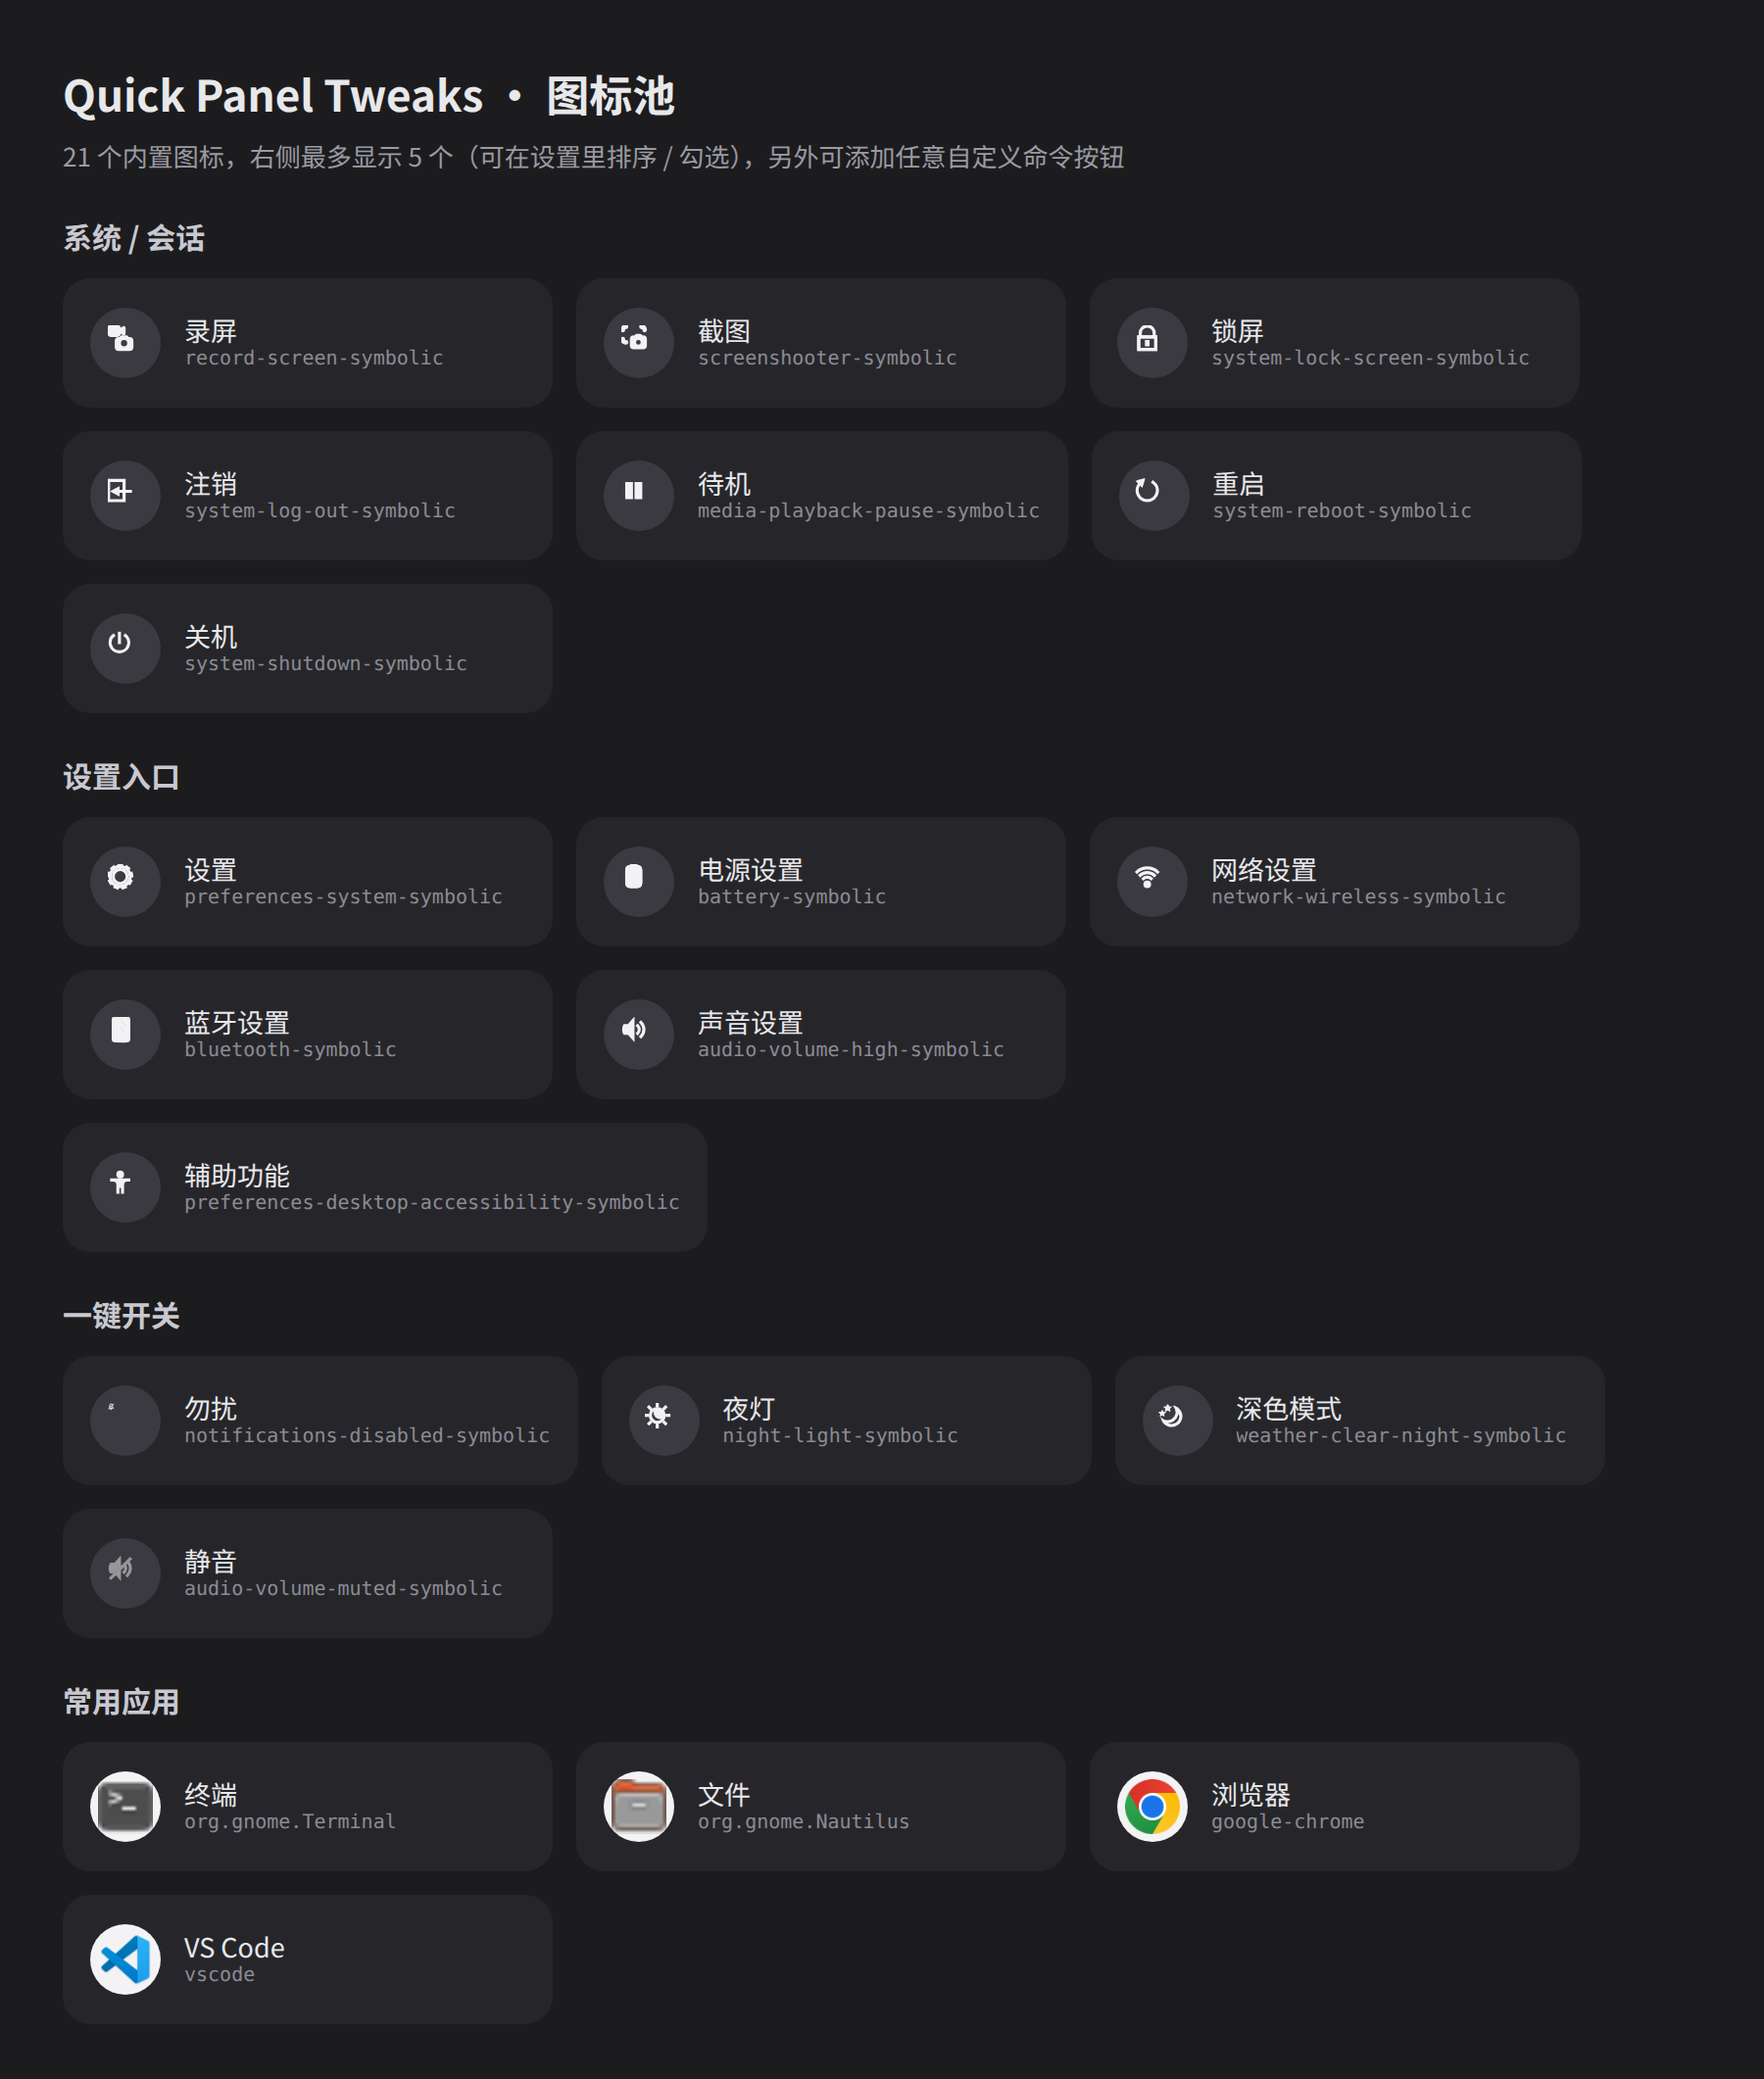
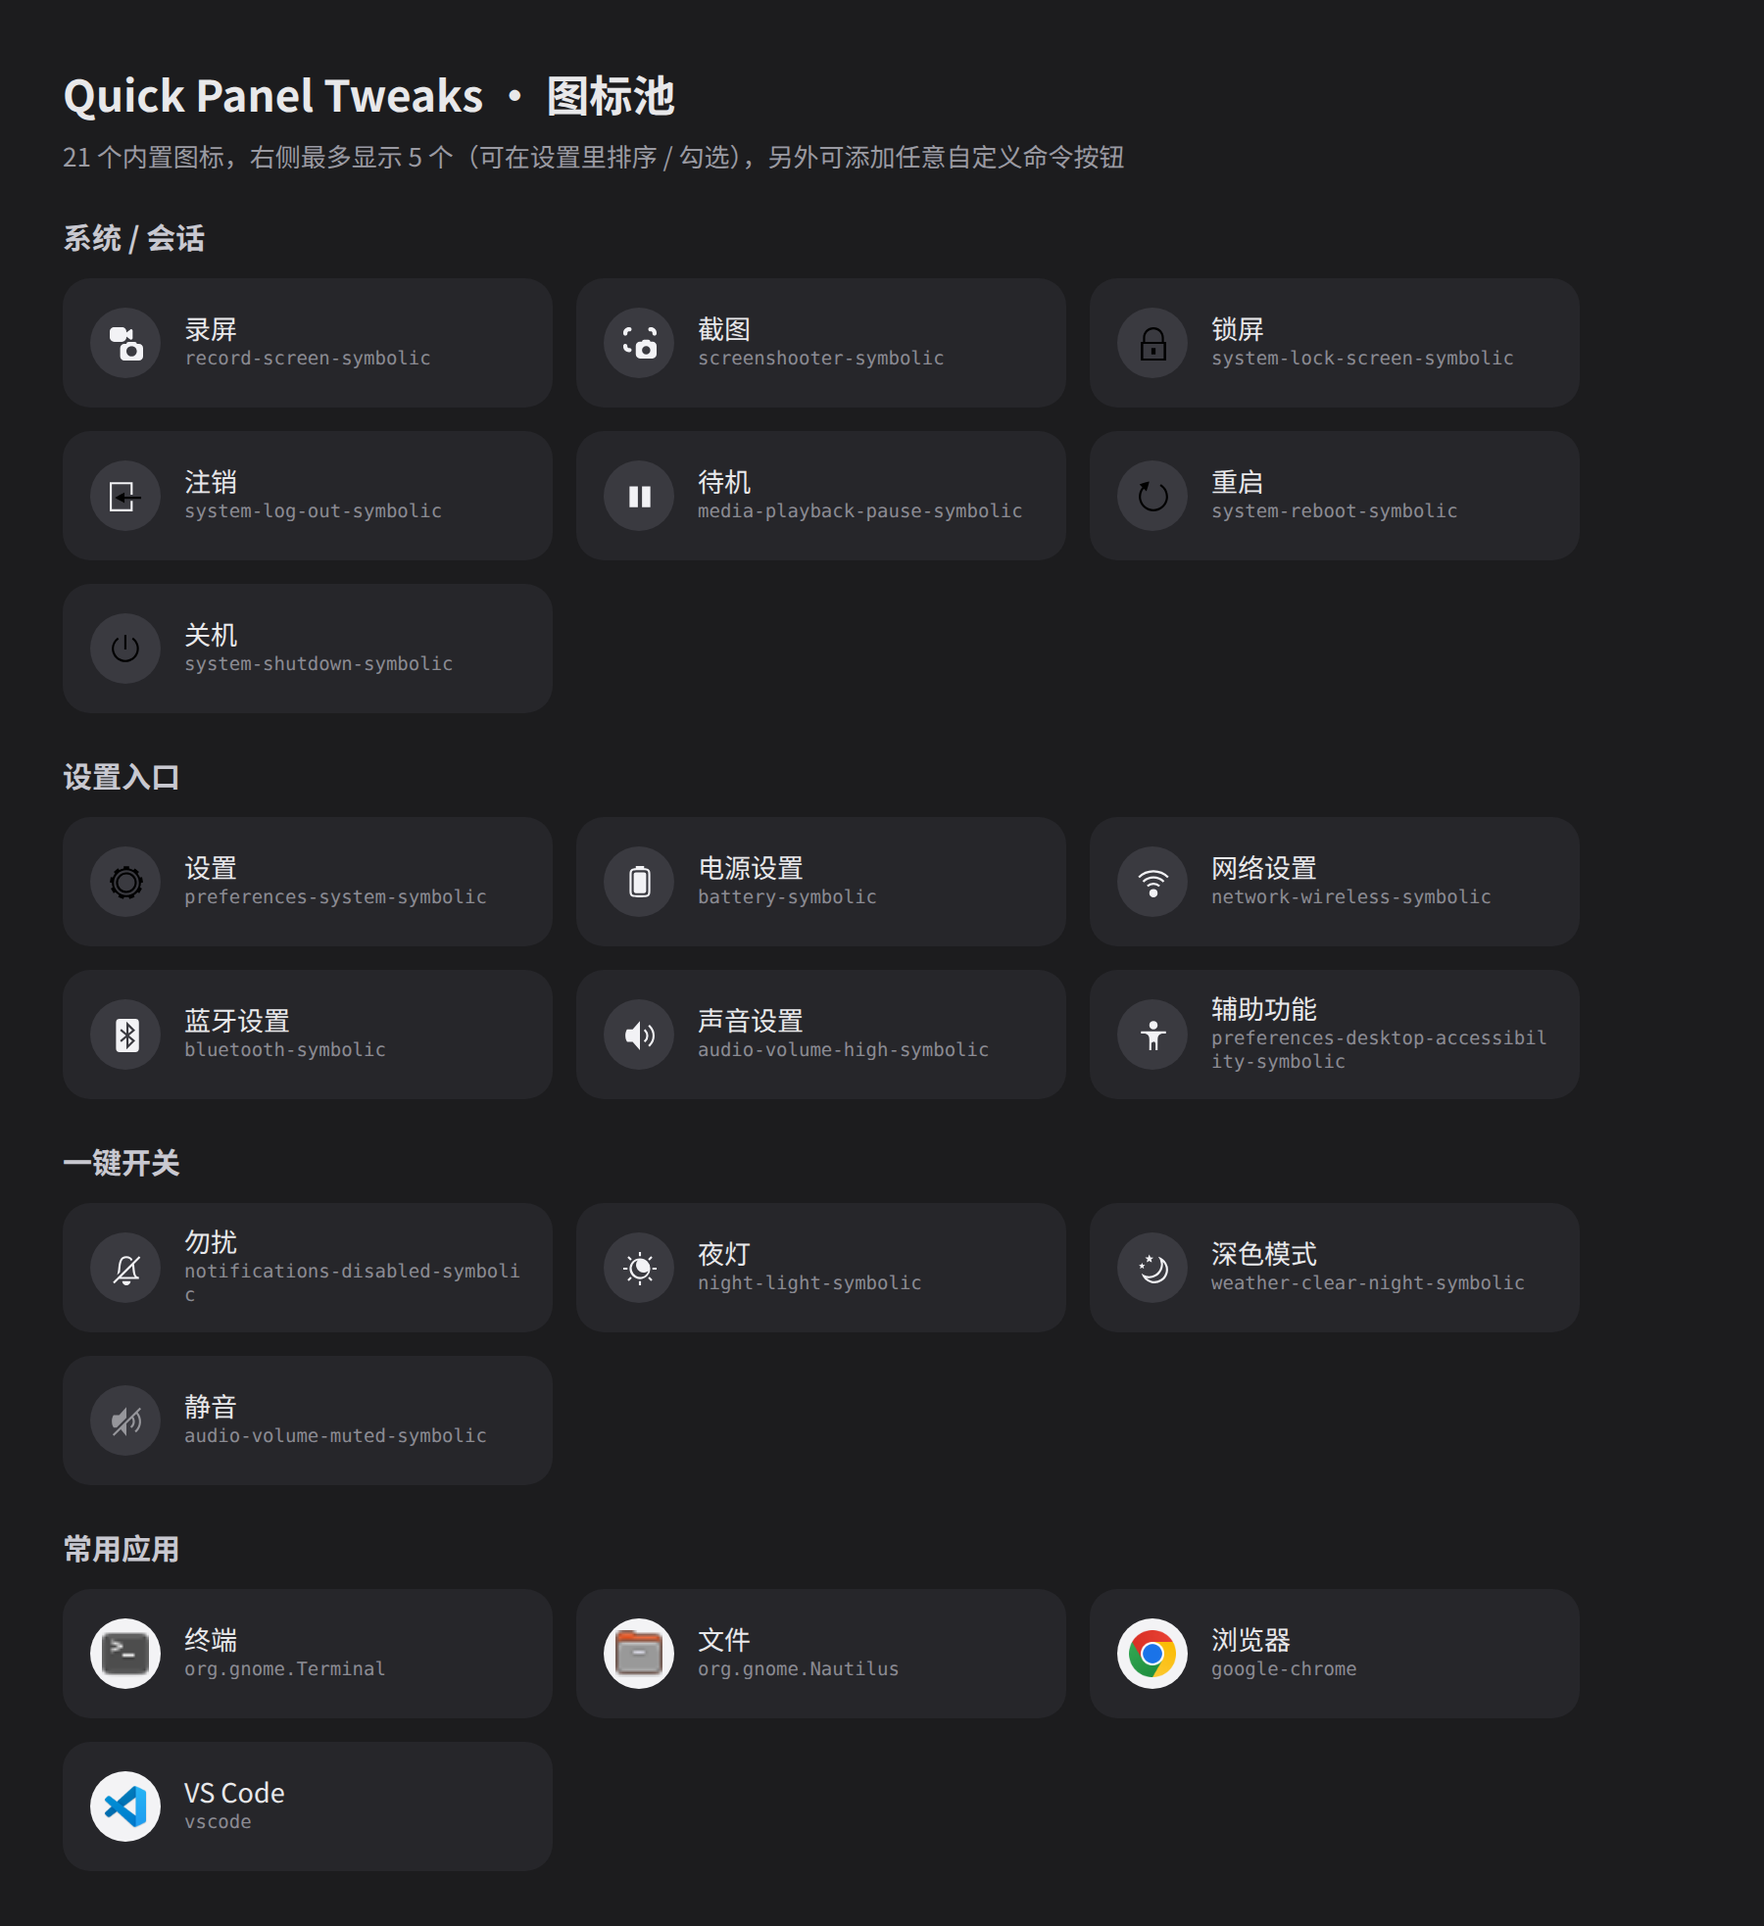
fix(docs): 图标内联时沿用原始 viewBox（16×16），修正图标在圆形容器中不居中的问题

diff --git a/tools/render_pool.js b/tools/render_pool.js
@@ -73,11 +73,19 @@ function findIcon(name) {
 }
 
 function inlineSvg(file) {
-    let xml = fs.readFileSync(file, 'utf8')
+    const xml = fs.readFileSync(file, 'utf8')
         .replace(/<\?xml[^>]*\?>/g, '')
         .replace(/<!DOCTYPE[^>]*>/g, '');
-    const inner = xml.replace(/^[\s\S]*?<svg[^>]*>/, '').replace(/<\/svg>\s*$/, '');
-    return inner;
+    const tag = xml.match(/<svg[^>]*>/i)?.[0] ?? '';
+    // 关键：沿用原文件的 viewBox（主题图标大多是 16×16，写死 24 会让图形缩在左上角）
+    const box = tag.match(/viewBox="([^"]+)"/i)?.[1]
+        ?? (() => {
+            const w = tag.match(/width="([\d.]+)/i)?.[1];
+            const h = tag.match(/height="([\d.]+)/i)?.[1];
+            return w && h ? `0 0 ${w} ${h}` : '0 0 16 16';
+        })();
+    const inner = xml.replace(/^[\s\S]*?<svg[^>]*>/i, '').replace(/<\/svg>\s*$/i, '');
+    return {box, inner};
 }
 
 const groups = {'system': '系统 / 会话', 'settings': '设置入口', 'toggles': '一键开关', 'apps': '常用应用'};
@@ -92,21 +100,23 @@ for (const [group, label, icon] of POOL) {
     }
     const file = findIcon(icon);
     const isApp = group === 'apps';
-    // 彩色应用图标直接引用原文件（内联会丢 defs/渐变），符号图标内联后统一染色
-    const art = !file ? '<svg viewBox="0 0 24 24"></svg>'
-        : file.endsWith('.svg') && !isApp ? `<svg viewBox="0 0 24 24">${inlineSvg(file)}</svg>`
-        : `<img src="file://${file}">`;
+    // 彩色应用图标直接引用原文件（内联会丢 defs/渐变），符号图标内联后统一染色并居中
+    const art = !file ? '<svg viewBox="0 0 16 16"></svg>'
+        : file.endsWith('.svg') && !isApp
+            ? (() => { const {box, inner} = inlineSvg(file); return `<svg viewBox="${box}">${inner}</svg>`; })()
+            : `<img src="file://${file}">`;
     cards += `<div class="card"><div class="icon${isApp ? ' app' : ''}">${art}</div>` +
         `<div class="text"><div class="label">${label}</div><div class="id">${icon}</div></div></div>`;
 }
-cards += '</div>';
+if (lastGroup !== null)
+    cards += '</div>';
 
 const html = `<!doctype html><html><head><meta charset="utf-8"><style>
 body { margin:0; background:#1c1c1e; color:#e8e8ea; font:14px "Noto Sans CJK SC", system-ui, sans-serif; padding:28px 32px; }
 h1 { font-size:22px; margin:4px 0 6px; }
 .sub { color:#9a9aa2; font-size:13px; margin-bottom:18px; }
 h2 { font-size:15px; color:#c8c8d0; margin:22px 0 10px; font-weight:600; }
-/* 卡片走 flex：固定宽高 + 垂直居中，行与行严格对齐 */
+/* 卡片走 flex：固定宽高 + 内容垂直居中，行与行严格对齐 */
 .grid { display:flex; flex-wrap:wrap; gap:12px; align-items:stretch; }
 .card {
   flex:0 0 250px; height:66px; box-sizing:border-box;
@@ -117,16 +127,16 @@ h2 { font-size:15px; color:#c8c8d0; margin:22px 0 10px; font-weight:600; }
   flex:0 0 36px; width:36px; height:36px; border-radius:50%; background:#3a3a40;
   display:flex; align-items:center; justify-content:center;
 }
-.icon svg { width:19px; height:19px; display:block; }
-.icon:not(.app) svg * { fill:#f2f2f5 !important; stroke:#f2f2f5 !important; }
+.icon svg { width:17px; height:17px; display:block; }
+/* 只改填充色；带 stroke 的图形才改描边，且不要给 stroke="none" 的图形硬描边 */
+.icon:not(.app) svg { color:#f2f2f5; }
+.icon:not(.app) svg * { fill:currentColor !important; }
+.icon:not(.app) svg [stroke]:not([stroke="none"]) { stroke:currentColor !important; }
 .icon.app { background:#f3f3f5; }
-.icon.app img { width:28px; height:28px; display:block; }
-.text { min-width:0; display:flex; flex-direction:column; justify-content:center; gap:2px; }
-.label { font-size:13.5px; line-height:1.15; }
-.id {
-  font-size:10px; color:#8b8b93; font-family:ui-monospace, monospace;
-  white-space:nowrap; overflow:hidden; text-overflow:ellipsis;
-}
+.icon.app img { width:24px; height:24px; display:block; }
+.text { min-width:0; display:flex; flex-direction:column; justify-content:center; gap:3px; }
+.label { font-size:13.5px; line-height:1.1; }
+.id { font-size:9.5px; color:#8b8b93; font-family:ui-monospace, monospace; line-height:1.25; word-break:break-all; }
 </style></head><body>
 <h1>Quick Panel Tweaks · 图标池</h1>
 <div class="sub">21 个内置图标，右侧最多显示 5 个（可在设置里排序 / 勾选），另外可添加任意自定义命令按钮</div>
